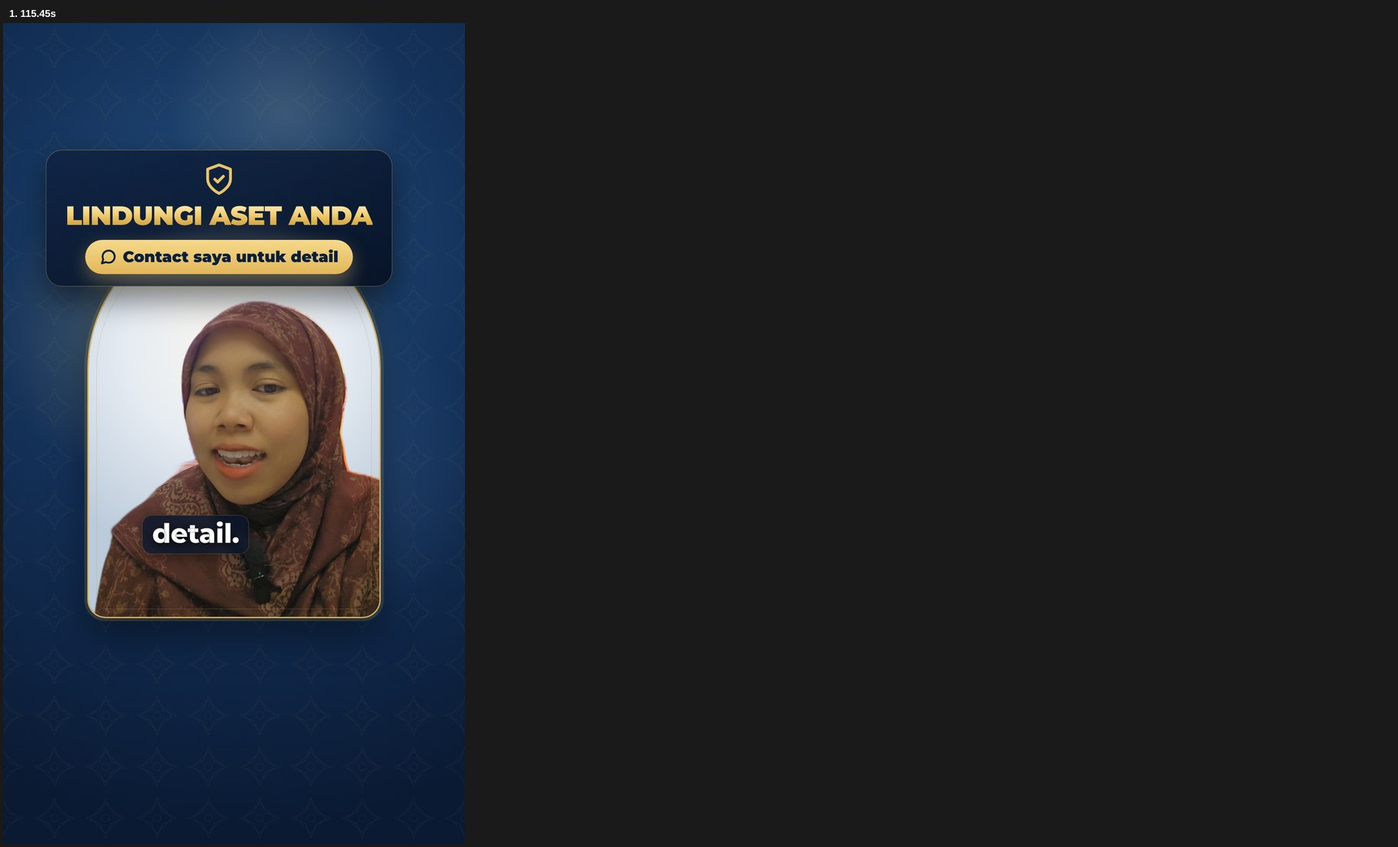
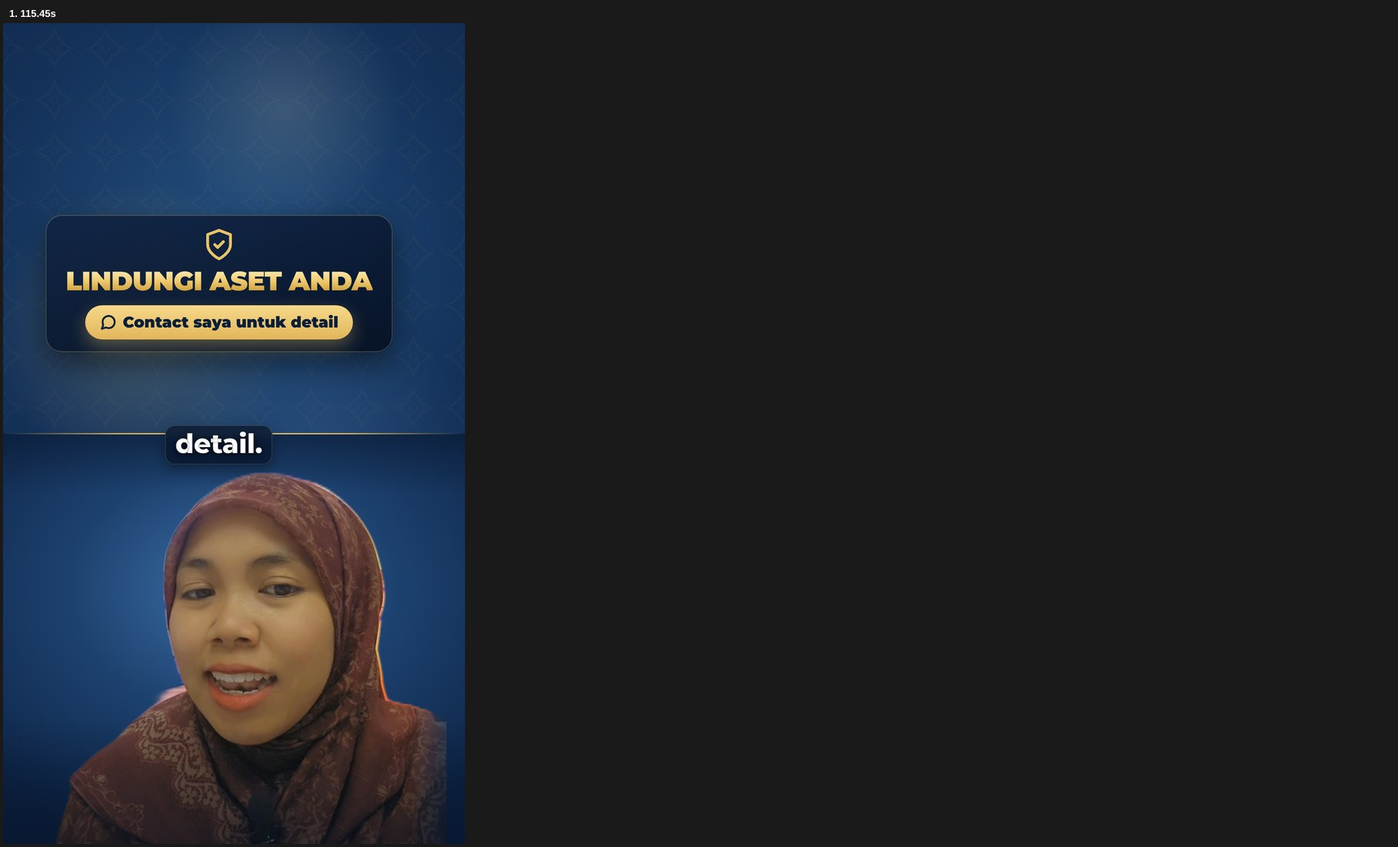
Split layout: explanations on top, speaker on the bottom half
Cards sit centred in the top half, caption pills ride the gold split line,
and the matted speaker fills the bottom stage with soft faded edges.

Claude-Session: https://claude.ai/code/session_01RHe32evRqHmnTFSgiGWNc1

Changed region(s): [[0.0, 0.1544, 0.3392, 1.0]]

diff --git a/wasiyyah-reel/compositions/captions.html b/wasiyyah-reel/compositions/captions.html
@@ -1,7 +1,7 @@
 <template>
   <style>
     #captions{position:absolute;inset:0;pointer-events:none}
-    #captions .grp{position:absolute;left:120px;width:660px;bottom:678px;white-space:nowrap;text-align:center;opacity:0;visibility:hidden;
+    #captions .grp{position:absolute;left:120px;width:768px;bottom:888px;white-space:nowrap;text-align:center;opacity:0;visibility:hidden;
       font-family:'Montserrat',sans-serif;font-weight:800;font-size:62px;line-height:1.12;letter-spacing:-.01em;color:#FFFFFF;overflow:visible}
     #captions .pb{display:inline-block;padding:8px 24px 12px;border-radius:22px;background:rgba(8,22,46,.76);border:1.5px solid rgba(233,196,106,.28);box-shadow:0 12px 30px rgba(0,0,0,.35);backdrop-filter:blur(10px);-webkit-backdrop-filter:blur(10px)}
     #captions .w{display:inline-block;text-shadow:0 3px 0 rgba(0,0,0,.35),0 6px 22px rgba(0,0,0,.75);-webkit-text-stroke:1.5px rgba(0,0,0,.25)}
@@ -18,7 +18,7 @@
       <div class="grp" id="cg7" data-a="10.570" data-b="11.255"><span class="pb"><span class="w k" id="cw7_0" data-t="10.630">ASB</span></span></div>
       <div class="grp" id="cg8" data-a="11.255" data-b="12.192"><span class="pb"><span class="w k" id="cw8_0" data-t="11.315">Tabung</span> <span class="w k" id="cw8_1" data-t="11.463">Haji</span></span></div>
       <div class="grp" id="cg9" data-a="12.192" data-b="12.470"><span class="pb"><span class="w" id="cw9_0" data-t="12.252">semuanya</span></span></div>
-      <div class="grp" id="cg10" data-a="12.470" data-b="13.784"><span class="pb"><span class="w k" id="cw10_0" data-t="12.530">dibekukan</span> <span class="w" id="cw10_1" data-t="13.344">dan</span> <span class="w" id="cw10_2" data-t="13.604">tak</span></span></div>
+      <div class="grp" id="cg10" data-a="12.470" data-b="13.784" style="font-size:58px"><span class="pb"><span class="w k" id="cw10_0" data-t="12.530">dibekukan</span> <span class="w" id="cw10_1" data-t="13.344">dan</span> <span class="w" id="cw10_2" data-t="13.604">tak</span></span></div>
       <div class="grp" id="cg11" data-a="13.784" data-b="13.988"><span class="pb"><span class="w" id="cw11_0" data-t="13.844">boleh</span></span></div>
       <div class="grp" id="cg12" data-a="13.988" data-b="14.810"><span class="pb"><span class="w" id="cw12_0" data-t="14.048">dikeluarkan.</span></span></div>
       <div class="grp" id="cg13" data-a="14.810" data-b="15.570"><span class="pb"><span class="w" id="cw13_0" data-t="14.870">Untuk</span> <span class="w" id="cw13_1" data-t="15.167">keluarkan</span></span></div>
@@ -33,7 +33,7 @@
       <div class="grp" id="cg22" data-a="22.492" data-b="23.082"><span class="pb"><span class="w" id="cw22_0" data-t="22.552">Prosesnya</span></span></div>
       <div class="grp" id="cg23" data-a="23.307" data-b="24.288"><span class="pb"><span class="w" id="cw23_0" data-t="23.367">panjang.</span></span></div>
       <div class="grp" id="cg24" data-a="24.288" data-b="24.807"><span class="pb"><span class="w" id="cw24_0" data-t="24.348">Tarikh</span> <span class="w k" id="cw24_1" data-t="24.533">bicara</span></span></div>
-      <div class="grp" id="cg25" data-a="24.807" data-b="26.238"><span class="pb"><span class="w k" id="cw25_0" data-t="24.867">kuasa</span> <span class="w" id="cw25_1" data-t="25.200">biasanya</span> <span class="w k" id="cw25_2" data-t="25.733">6</span></span></div>
+      <div class="grp" id="cg25" data-a="24.807" data-b="26.238" style="font-size:61px"><span class="pb"><span class="w k" id="cw25_0" data-t="24.867">kuasa</span> <span class="w" id="cw25_1" data-t="25.200">biasanya</span> <span class="w k" id="cw25_2" data-t="25.733">6</span></span></div>
       <div class="grp" id="cg26" data-a="26.238" data-b="27.442"><span class="pb"><span class="w" id="cw26_0" data-t="26.298">hingga</span> <span class="w k" id="cw26_1" data-t="26.706">7</span> <span class="w k" id="cw26_2" data-t="27.057">bulan</span></span></div>
       <div class="grp" id="cg27" data-a="27.442" data-b="28.201"><span class="pb"><span class="w" id="cw27_0" data-t="27.502">bergantung</span></span></div>
       <div class="grp" id="cg28" data-a="28.201" data-b="28.910"><span class="pb"><span class="w" id="cw28_0" data-t="28.261">kawasan.</span></span></div>
@@ -76,7 +76,7 @@
       <div class="grp" id="cg65" data-a="58.907" data-b="59.866"><span class="pb"><span class="w" id="cw65_0" data-t="58.967">Akibatnya</span></span></div>
       <div class="grp" id="cg66" data-a="59.866" data-b="60.347"><span class="pb"><span class="w" id="cw66_0" data-t="59.926">aset</span> <span class="w" id="cw66_1" data-t="60.074">terus</span></span></div>
       <div class="grp" id="cg67" data-a="60.347" data-b="61.044"><span class="pb"><span class="w k" id="cw67_0" data-t="60.407">terbeku.</span></span></div>
-      <div class="grp" id="cg68" data-a="61.044" data-b="62.155"><span class="pb"><span class="w" id="cw68_0" data-t="61.104">Nak</span> <span class="w" id="cw68_1" data-t="61.344">minta</span> <span class="w" id="cw68_2" data-t="61.807">bantuan</span></span></div>
+      <div class="grp" id="cg68" data-a="61.044" data-b="62.155" style="font-size:57px"><span class="pb"><span class="w" id="cw68_0" data-t="61.104">Nak</span> <span class="w" id="cw68_1" data-t="61.344">minta</span> <span class="w" id="cw68_2" data-t="61.807">bantuan</span></span></div>
       <div class="grp" id="cg69" data-a="62.155" data-b="63.171"><span class="pb"><span class="w" id="cw69_0" data-t="62.215">third party?</span></span></div>
       <div class="grp" id="cg70" data-a="63.171" data-b="64.149"><span class="pb"><span class="w" id="cw70_0" data-t="63.231">Kebanyakannya</span></span></div>
       <div class="grp" id="cg71" data-a="64.149" data-b="65.242"><span class="pb"><span class="w k" id="cw71_0" data-t="64.209">cas</span> <span class="w k" id="cw71_1" data-t="64.376">2%</span> <span class="w" id="cw71_2" data-t="65.080">ke</span></span></div>
@@ -88,29 +88,29 @@
       <div class="grp" id="cg77" data-a="69.386" data-b="71.053"><span class="pb"><span class="w k" id="cw77_0" data-t="69.446">RM20,000</span> <span class="w" id="cw77_1" data-t="70.687">at</span></span></div>
       <div class="grp" id="cg78" data-a="71.053" data-b="71.444"><span class="pb"><span class="w" id="cw78_0" data-t="71.113">least.</span></span></div>
       <div class="grp" id="cg79" data-a="71.444" data-b="72.059"><span class="pb"><span class="w" id="cw79_0" data-t="71.504">Sebab</span> <span class="w" id="cw79_1" data-t="71.763">itu</span></span></div>
-      <div class="grp" id="cg80" data-a="72.059" data-b="73.207"><span class="pb"><span class="w" id="cw80_0" data-t="72.119">Syarikat</span> <span class="w k" id="cw80_1" data-t="72.859">Wasiyyah</span></span></div>
+      <div class="grp" id="cg80" data-a="72.059" data-b="73.207" style="font-size:57px"><span class="pb"><span class="w" id="cw80_0" data-t="72.119">Syarikat</span> <span class="w k" id="cw80_1" data-t="72.859">Wasiyyah</span></span></div>
       <div class="grp" id="cg81" data-a="73.207" data-b="73.521"><span class="pb"><span class="w" id="cw81_0" data-t="73.267">Berhad</span></span></div>
       <div class="grp" id="cg82" data-a="73.521" data-b="75.301"><span class="pb"><span class="w" id="cw82_0" data-t="73.581">memperkenalkan</span></span></div>
       <div class="grp" id="cg83" data-a="75.301" data-b="76.227"><span class="pb"><span class="w" id="cw83_0" data-t="75.361">satu</span> <span class="w" id="cw83_1" data-t="75.861">produk</span></span></div>
-      <div class="grp" id="cg84" data-a="76.227" data-b="77.531"><span class="pb"><span class="w k" id="cw84_0" data-t="76.287">Wasiyyah</span> <span class="w" id="cw84_1" data-t="76.980">sebagai</span></span></div>
+      <div class="grp" id="cg84" data-a="76.227" data-b="77.531" style="font-size:61px"><span class="pb"><span class="w k" id="cw84_0" data-t="76.287">Wasiyyah</span> <span class="w" id="cw84_1" data-t="76.980">sebagai</span></span></div>
       <div class="grp" id="cg85" data-a="77.531" data-b="78.510"><span class="pb"><span class="w k" id="cw85_0" data-t="77.591">Khairiat</span> <span class="w k" id="cw85_1" data-t="77.906">Pusaka.</span></span></div>
       <div class="grp" id="cg86" data-a="78.510" data-b="79.566"><span class="pb"><span class="w" id="cw86_0" data-t="78.570">Yang</span> <span class="w" id="cw86_1" data-t="78.644">mana</span> <span class="w" id="cw86_2" data-t="79.107">kami</span></span></div>
       <div class="grp" id="cg87" data-a="79.566" data-b="80.436"><span class="pb"><span class="w" id="cw87_0" data-t="79.626">akan</span> <span class="w" id="cw87_1" data-t="80.070">bantu</span></span></div>
       <div class="grp" id="cg88" data-a="80.436" data-b="81.418"><span class="pb"><span class="w" id="cw88_0" data-t="80.496">uruskan</span> <span class="w k" id="cw88_1" data-t="80.941">pusaka</span></span></div>
       <div class="grp" id="cg89" data-a="81.418" data-b="82.992"><span class="pb"><span class="w" id="cw89_0" data-t="81.478">anda</span> <span class="w" id="cw89_1" data-t="82.015">sehingga</span></span></div>
-      <div class="grp" id="cg90" data-a="82.992" data-b="83.973"><span class="pb"><span class="w" id="cw90_0" data-t="83.052">waris</span> <span class="w" id="cw90_1" data-t="83.385">dapat</span> <span class="w k" id="cw90_2" data-t="83.756">surat</span></span></div>
+      <div class="grp" id="cg90" data-a="82.992" data-b="83.973" style="font-size:58px"><span class="pb"><span class="w" id="cw90_0" data-t="83.052">waris</span> <span class="w" id="cw90_1" data-t="83.385">dapat</span> <span class="w k" id="cw90_2" data-t="83.756">surat</span></span></div>
       <div class="grp" id="cg91" data-a="83.973" data-b="84.877"><span class="pb"><span class="w k" id="cw91_0" data-t="84.033">kuasa.</span></span></div>
-      <div class="grp" id="cg92" data-a="84.877" data-b="85.710"><span class="pb"><span class="w k" id="cw92_0" data-t="84.937">Tiada</span> <span class="w k" id="cw92_1" data-t="85.178">cas</span> <span class="w" id="cw92_2" data-t="85.381">selepas</span></span></div>
+      <div class="grp" id="cg92" data-a="84.877" data-b="85.710" style="font-size:59px"><span class="pb"><span class="w k" id="cw92_0" data-t="84.937">Tiada</span> <span class="w k" id="cw92_1" data-t="85.178">cas</span> <span class="w" id="cw92_2" data-t="85.381">selepas</span></span></div>
       <div class="grp" id="cg93" data-a="85.710" data-b="86.990"><span class="pb"><span class="w k" id="cw93_0" data-t="85.770">kematian</span></span></div>
       <div class="grp" id="cg94" data-a="86.990" data-b="87.786"><span class="pb"><span class="w" id="cw94_0" data-t="87.050">hanya</span> <span class="w" id="cw94_1" data-t="87.180">serendah</span></span></div>
-      <div class="grp" id="cg95" data-a="87.786" data-b="90.551"><span class="pb"><span class="w k" id="cw95_0" data-t="87.846">RM32.40</span> <span class="w" id="cw95_1" data-t="89.611">sebulan</span></span></div>
+      <div class="grp" id="cg95" data-a="87.786" data-b="90.551" style="font-size:61px"><span class="pb"><span class="w k" id="cw95_0" data-t="87.846">RM32.40</span> <span class="w" id="cw95_1" data-t="89.611">sebulan</span></span></div>
       <div class="grp" id="cg96" data-a="90.551" data-b="92.051"><span class="pb"><span class="w" id="cw96_0" data-t="90.611">termasuk</span> <span class="w" id="cw96_1" data-t="91.000">SST</span></span></div>
       <div class="grp" id="cg97" data-a="92.051" data-b="93.840"><span class="pb"><span class="w" id="cw97_0" data-t="92.111">selama</span> <span class="w k" id="cw97_1" data-t="92.611">15</span> <span class="w k" id="cw97_2" data-t="93.370">tahun.</span></span></div>
-      <div class="grp" id="cg98" data-a="93.840" data-b="95.155"><span class="pb"><span class="w" id="cw98_0" data-t="93.900">Kami</span> <span class="w" id="cw98_1" data-t="94.419">uruskan</span> <span class="w" id="cw98_2" data-t="94.937">aset</span></span></div>
+      <div class="grp" id="cg98" data-a="93.840" data-b="95.155" style="font-size:57px"><span class="pb"><span class="w" id="cw98_0" data-t="93.900">Kami</span> <span class="w" id="cw98_1" data-t="94.419">uruskan</span> <span class="w" id="cw98_2" data-t="94.937">aset</span></span></div>
       <div class="grp" id="cg99" data-a="95.155" data-b="96.155"><span class="pb"><span class="w" id="cw99_0" data-t="95.215">sehingga</span> <span class="w k" id="cw99_1" data-t="95.789">RM2</span></span></div>
       <div class="grp" id="cg100" data-a="96.155" data-b="96.944"><span class="pb"><span class="w k" id="cw100_0" data-t="96.215">juta.</span></span></div>
       <div class="grp" id="cg101" data-a="96.944" data-b="97.833"><span class="pb"><span class="w" id="cw101_0" data-t="97.004">Sekiranya</span> <span class="w" id="cw101_1" data-t="97.504">anda</span></span></div>
-      <div class="grp" id="cg102" data-a="97.833" data-b="98.981"><span class="pb"><span class="w" id="cw102_0" data-t="97.893">melanggan</span> <span class="w k" id="cw102_1" data-t="98.411">Wasitah</span></span></div>
+      <div class="grp" id="cg102" data-a="97.833" data-b="98.981" style="font-size:57px"><span class="pb"><span class="w" id="cw102_0" data-t="97.893">melanggan</span> <span class="w k" id="cw102_1" data-t="98.411">Wasitah</span></span></div>
       <div class="grp" id="cg103" data-a="98.981" data-b="99.981"><span class="pb"><span class="w k" id="cw103_0" data-t="99.041">Intan</span> <span class="w" id="cw103_1" data-t="99.337">ini</span></span></div>
       <div class="grp" id="cg104" data-a="99.981" data-b="100.962"><span class="pb"><span class="w" id="cw104_0" data-t="100.041">jumlahnya</span> <span class="w" id="cw104_1" data-t="100.578">hanya</span></span></div>
       <div class="grp" id="cg105" data-a="100.962" data-b="104.077"><span class="pb"><span class="w k" id="cw105_0" data-t="101.022">RM5,832</span> <span class="w" id="cw105_1" data-t="103.263">saja.</span></span></div>
@@ -118,8 +118,8 @@
       <div class="grp" id="cg107" data-a="104.596" data-b="105.403"><span class="pb"><span class="w k" id="cw107_0" data-t="104.656">kuasa</span></span></div>
       <div class="grp" id="cg108" data-a="105.403" data-b="106.279"><span class="pb"><span class="w" id="cw108_0" data-t="105.463">keluarga</span> <span class="w" id="cw108_1" data-t="106.061">boleh</span></span></div>
       <div class="grp" id="cg109" data-a="106.279" data-b="107.686"><span class="pb"><span class="w" id="cw109_0" data-t="106.339">terus</span> <span class="w" id="cw109_1" data-t="106.654">ke</span> <span class="w k" id="cw109_2" data-t="106.913">JPJ</span></span></div>
-      <div class="grp" id="cg110" data-a="107.686" data-b="108.738"><span class="pb"><span class="w k" id="cw110_0" data-t="107.746">Pejabat</span> <span class="w k" id="cw110_1" data-t="108.024">Tanah</span> <span class="w" id="cw110_2" data-t="108.567">dan</span></span></div>
-      <div class="grp" id="cg111" data-a="108.738" data-b="109.812"><span class="pb"><span class="w k" id="cw111_0" data-t="108.798">bank</span> <span class="w" id="cw111_1" data-t="109.113">untuk</span> <span class="w" id="cw111_2" data-t="109.520">tukar</span></span></div>
+      <div class="grp" id="cg110" data-a="107.686" data-b="108.738" style="font-size:55px"><span class="pb"><span class="w k" id="cw110_0" data-t="107.746">Pejabat</span> <span class="w k" id="cw110_1" data-t="108.024">Tanah</span> <span class="w" id="cw110_2" data-t="108.567">dan</span></span></div>
+      <div class="grp" id="cg111" data-a="108.738" data-b="109.812" style="font-size:60px"><span class="pb"><span class="w k" id="cw111_0" data-t="108.798">bank</span> <span class="w" id="cw111_1" data-t="109.113">untuk</span> <span class="w" id="cw111_2" data-t="109.520">tukar</span></span></div>
       <div class="grp" id="cg112" data-a="109.812" data-b="110.775"><span class="pb"><span class="w" id="cw112_0" data-t="109.872">nama</span> <span class="w" id="cw112_1" data-t="110.187">dan</span> <span class="w k" id="cw112_2" data-t="110.465">cairkan</span></span></div>
       <div class="grp" id="cg113" data-a="110.775" data-b="111.325"><span class="pb"><span class="w k" id="cw113_0" data-t="110.835">duit.</span></span></div>
       <div class="grp" id="cg114" data-a="111.325" data-b="112.640"><span class="pb"><span class="w k" id="cw114_0" data-t="111.385">Lindungi</span> <span class="w" id="cw114_1" data-t="112.459">aset</span></span></div>

diff --git a/wasiyyah-reel/index.html b/wasiyyah-reel/index.html
@@ -15,15 +15,15 @@
       #orb1 { left: -220px; top: 120px; width: 760px; height: 760px; background: radial-gradient(circle, rgba(233,196,106,.20) 0%, rgba(233,196,106,0) 65%); }
       #orb2 { right: -260px; top: 900px; width: 820px; height: 820px; background: radial-gradient(circle, rgba(120,170,230,.18) 0%, rgba(120,170,230,0) 65%); }
       #orb3 { left: 240px; top: -260px; width: 600px; height: 600px; background: radial-gradient(circle, rgba(255,240,200,.14) 0%, rgba(255,240,200,0) 65%); }
-      #arch-glow { position: absolute; left: 140px; top: 410px; width: 800px; height: 1039px; z-index: 1;
-        border-radius: 400px 400px 90px 90px;
-        background: radial-gradient(ellipse at 50% 35%, rgba(233,196,106,.22), rgba(233,196,106,0) 70%); }
-      #arch { position: absolute; left: 200px; top: 470px; width: 680px; height: 919px; z-index: 1; overflow: hidden;
-        border-radius: 340px 340px 40px 40px;
-        background: radial-gradient(ellipse 80% 55% at 50% 32%, #FBF8EE 0%, #E6ECF2 45%, #BCCBDB 100%);
-        box-shadow: 0 0 0 3px #D9B25C, 0 0 0 10px rgba(217,178,92,.16), 0 40px 90px rgba(0,0,0,.45); }
-      #arch-inner { position: absolute; inset: 18px; border-radius: 322px 322px 26px 26px; border: 1.5px solid rgba(201,150,46,.35); z-index: 2; }
-      #shake { position: absolute; inset: 0; }
+      #stage { position: absolute; left: 0; top: 960px; width: 1080px; height: 960px; z-index: 1; overflow: hidden;
+        background: radial-gradient(ellipse 75% 65% at 50% 38%, #3B6FA6 0%, #1D416E 48%, #0D2446 100%); }
+      #stage-vig { position: absolute; inset: 0; z-index: 2; pointer-events: none;
+        background: linear-gradient(180deg, rgba(10,26,51,.55) 0%, rgba(10,26,51,0) 14%, rgba(10,26,51,0) 70%, rgba(6,15,32,.55) 100%); }
+      #stage-line { position: absolute; left: 0; width: 1080px; top: 959px; height: 3px; z-index: 3;
+        background: linear-gradient(90deg, rgba(217,178,92,0), #D9B25C 25%, #F2CF76 50%, #D9B25C 75%, rgba(217,178,92,0)); }
+      #shake { position: absolute; inset: 0;
+        -webkit-mask-image: linear-gradient(90deg, transparent 0px, #000 130px, #000 950px, transparent 1080px);
+        mask-image: linear-gradient(90deg, transparent 0px, #000 130px, #000 950px, transparent 1080px); }
       #cam { position: absolute; left: 0; top: 0; width: 1080px; height: 1920px; transform-origin: 0 0; }
       #aroll { position: absolute; left: 0; top: 0; width: 1080px; height: 1920px; object-fit: cover; }
       #frost { position: absolute; inset: 0; z-index: 3; opacity: 0;
@@ -37,10 +37,10 @@
   <body>
     <div id="root" data-composition-id="main" data-start="0" data-duration="115.7" data-width="1080" data-height="1920">
       <div id="bg" data-layout-ignore><div id="bg-pattern"></div><div class="orb" id="orb1"></div><div class="orb" id="orb2"></div><div class="orb" id="orb3"></div></div>
-      <div id="arch-glow" data-layout-ignore></div>
-      <div id="arch" data-layout-ignore><div id="shake"><div id="cam">
+      <div id="stage" data-layout-ignore><div id="shake"><div id="cam">
         <video id="aroll" data-color-grading="{&quot;preset&quot;:&quot;skin-soft&quot;,&quot;intensity&quot;:0.62,&quot;adjust&quot;:{&quot;exposure&quot;:0.08,&quot;contrast&quot;:0.07,&quot;highlights&quot;:-0.18,&quot;shadows&quot;:0.13,&quot;whites&quot;:-0.05,&quot;blacks&quot;:0,&quot;temperature&quot;:-0.04,&quot;tint&quot;:0.01,&quot;vibrance&quot;:0.04,&quot;saturation&quot;:0},&quot;details&quot;:{&quot;vignette&quot;:0.05,&quot;vignetteMidpoint&quot;:0.5,&quot;vignetteRoundness&quot;:0,&quot;vignetteFeather&quot;:0.65,&quot;grain&quot;:0,&quot;grainSize&quot;:0.25,&quot;grainRoughness&quot;:0.5},&quot;effects&quot;:{&quot;blur&quot;:0,&quot;pixelate&quot;:0,&quot;chromaBleed&quot;:0,&quot;tapeDamage&quot;:0,&quot;tapeTracking&quot;:0,&quot;tapeNoise&quot;:1,&quot;tapeSpeed&quot;:0.5,&quot;filmArtifacts&quot;:0,&quot;halftone&quot;:0,&quot;halftoneSize&quot;:0,&quot;twoInkPrint&quot;:0,&quot;twoInkPrintSize&quot;:0,&quot;ascii&quot;:0,&quot;asciiSize&quot;:0.06578947368421052,&quot;asciiInvert&quot;:0,&quot;asciiStyle&quot;:0,&quot;asciiColor&quot;:1,&quot;asciiRotation&quot;:0,&quot;dither&quot;:0,&quot;ditherSize&quot;:0,&quot;bloom&quot;:0,&quot;bloomRadius&quot;:8,&quot;monoScreen&quot;:0,&quot;monoScreenSize&quot;:0,&quot;monoScreenAngle&quot;:0,&quot;monoScreenSpread&quot;:0,&quot;monoScreenShape&quot;:0,&quot;monoScreenInvert&quot;:0,&quot;scanlines&quot;:0,&quot;scanlineCount&quot;:0,&quot;scanlineSoftness&quot;:0,&quot;chromaticAberration&quot;:0,&quot;chromaticAngle&quot;:0,&quot;crtCurvature&quot;:0,&quot;digitalGlitch&quot;:0,&quot;digitalGlitchColorSplit&quot;:0,&quot;digitalGlitchLineTear&quot;:0,&quot;digitalGlitchPixelate&quot;:0,&quot;digitalGlitchBlockAmount&quot;:0,&quot;digitalGlitchBlockDisplacement&quot;:0,&quot;digitalGlitchBlockOpacity&quot;:0,&quot;digitalGlitchSpeed&quot;:0,&quot;engraving&quot;:0,&quot;engravingSpacing&quot;:0.4117647058823529,&quot;engravingMinThickness&quot;:0.2,&quot;engravingMaxThickness&quot;:0.4571428571428572,&quot;engravingAngle&quot;:0.25,&quot;engravingContrast&quot;:0.4666666666666667,&quot;engravingSharpness&quot;:0.59,&quot;engravingWave&quot;:0.2,&quot;engravingWaveFrequency&quot;:0.2222222222222222,&quot;crosshatch&quot;:0,&quot;crosshatchSpacing&quot;:0.28,&quot;crosshatchThickness&quot;:0.25,&quot;crosshatchAngle&quot;:0.25,&quot;crosshatchContrast&quot;:0.3333333333333333,&quot;crosshatchEdges&quot;:0.5,&quot;crosshatchLineWeight&quot;:0,&quot;crosshatchWave&quot;:0.33,&quot;crosshatchWaveFrequency&quot;:0.2222222222222222,&quot;kuwahara&quot;:0,&quot;kuwaharaRadius&quot;:0.14285714285714285,&quot;kuwaharaSharpness&quot;:0.3125,&quot;kuwaharaSaturation&quot;:0.5},&quot;lut&quot;:null,&quot;colorSpace&quot;:&quot;rec709&quot;}" class="clip" src="assets/person.webm" data-start="0" data-duration="115.7" data-track-index="0" muted playsinline></video>
-      </div></div><div id="arch-inner"></div></div>
+      </div></div><div id="stage-vig"></div></div>
+      <div id="stage-line" data-layout-ignore></div>
       <audio id="voice" class="clip" src="assets/voice.wav" data-start="0" data-duration="115.7" data-volume="1" data-track-index="1"></audio>
       <div id="frost" data-layout-ignore></div>
       <div id="hook" class="clip scene" data-composition-id="hook" data-composition-src="compositions/hook.html" data-start="0.0" data-duration="4.75" data-track-index="2" data-track-kind="graphics" data-width="1080" data-height="1920"></div>
@@ -128,13 +128,13 @@
     </div>
     <script>
       const tl = gsap.timeline({ paused: true });
-      const CAM = [[0.0, 2.5, -5.6, -310.0, 0.64, -9.75, -318.06, 0.6477], [4.733, 1.233, -27.2, -352.0, 0.68, -31.61, -360.57, 0.6882], [5.967, 2.367, -5.6, -310.0, 0.64, -9.75, -318.06, 0.6477], [8.333, 3.567, -27.2, -352.0, 0.68, -31.61, -360.57, 0.6882], [11.9, 2.933, -5.6, -310.0, 0.64, -9.75, -318.06, 0.6477], [14.833, 2.533, -27.2, -352.0, 0.68, -31.61, -360.57, 0.6882], [17.367, 2.333, -5.6, -310.0, 0.64, -9.75, -318.06, 0.6477], [19.7, 2.867, -27.2, -352.0, 0.68, -31.61, -360.57, 0.6882], [22.567, 0.8, -5.6, -310.0, 0.64, -9.75, -318.06, 0.6477], [23.367, 0.5, -5.6, -310.0, 0.64, -9.75, -318.06, 0.6477], [23.867, 1.867, -27.2, -352.0, 0.68, -31.61, -360.57, 0.6882], [25.733, 3.2, -5.6, -310.0, 0.64, -9.75, -318.06, 0.6477], [28.933, 6.933, -27.2, -352.0, 0.68, -31.61, -360.57, 0.6882], [35.867, 0.267, -27.2, -352.0, 0.68, -31.61, -360.57, 0.6882], [36.133, 1.6, -5.6, -310.0, 0.64, -9.75, -318.06, 0.6477], [37.733, 3.0, -27.2, -352.0, 0.68, -31.61, -360.57, 0.6882], [40.733, 2.233, -5.6, -310.0, 0.64, -9.75, -318.06, 0.6477], [42.967, 1.967, -27.2, -352.0, 0.68, -31.61, -360.57, 0.6882], [44.933, 1.433, -5.6, -310.0, 0.64, -9.75, -318.06, 0.6477], [46.367, 3.433, -27.2, -352.0, 0.68, -31.61, -360.57, 0.6882], [49.8, 2.167, -5.6, -310.0, 0.64, -9.75, -318.06, 0.6477], [51.967, 1.4, -27.2, -352.0, 0.68, -31.61, -360.57, 0.6882], [53.367, 2.3, -5.6, -310.0, 0.64, -9.75, -318.06, 0.6477], [55.667, 3.3, -27.2, -352.0, 0.68, -31.61, -360.57, 0.6882], [58.967, 0.7, -27.2, -352.0, 0.68, -31.61, -360.57, 0.6882], [59.667, 1.4, -5.6, -310.0, 0.64, -9.75, -318.06, 0.6477], [61.067, 1.767, -27.2, -352.0, 0.68, -31.61, -360.57, 0.6882], [62.833, 1.2, -5.6, -310.0, 0.64, -9.75, -318.06, 0.6477], [64.033, 1.6, -27.2, -352.0, 0.68, -31.61, -360.57, 0.6882], [65.633, 0.833, -5.6, -310.0, 0.64, -9.75, -318.06, 0.6477], [66.467, 1.767, -27.2, -352.0, 0.68, -31.61, -360.57, 0.6882], [68.233, 3.133, -5.6, -310.0, 0.64, -9.75, -318.06, 0.6477], [71.367, 0.1, -5.6, -310.0, 0.64, -9.75, -318.06, 0.6477], [71.467, 0.633, -5.6, -310.0, 0.64, -9.75, -318.06, 0.6477], [72.1, 3.233, -27.2, -352.0, 0.68, -31.61, -360.57, 0.6882], [75.333, 1.6, -5.6, -310.0, 0.64, -9.75, -318.06, 0.6477], [76.933, 1.6, -27.2, -352.0, 0.68, -31.61, -360.57, 0.6882], [78.533, 4.5, -5.6, -310.0, 0.64, -9.75, -318.06, 0.6477], [83.033, 1.867, -27.2, -352.0, 0.68, -31.61, -360.57, 0.6882], [84.9, 1.733, -5.6, -310.0, 0.64, -9.75, -318.06, 0.6477], [86.633, 2.367, -27.2, -352.0, 0.68, -31.61, -360.57, 0.6882], [89.0, 4.9, -5.6, -310.0, 0.64, -9.75, -318.06, 0.6477], [93.9, 2.867, -27.2, -352.0, 0.68, -31.61, -360.57, 0.6882], [96.767, 0.2, -27.2, -352.0, 0.68, -31.61, -360.57, 0.6882], [96.967, 7.133, -5.6, -310.0, 0.64, -9.75, -318.06, 0.6477], [104.1, 1.067, -27.2, -352.0, 0.68, -31.61, -360.57, 0.6882], [105.167, 0.167, -27.2, -352.0, 0.68, -31.61, -360.57, 0.6882], [105.333, 0.7, -27.2, -352.0, 0.68, -31.61, -360.57, 0.6882], [106.033, 2.533, -5.6, -310.0, 0.64, -9.75, -318.06, 0.6477], [108.567, 2.533, -27.2, -352.0, 0.68, -31.61, -360.57, 0.6882], [111.1, 0.267, -27.2, -352.0, 0.68, -31.61, -360.57, 0.6882], [111.367, 1.733, -5.6, -310.0, 0.64, -9.75, -318.06, 0.6477], [113.1, 2.6, -27.2, -352.0, 0.68, -31.61, -360.57, 0.6882]];
+      const CAM = [[0.0, 2.5, 75.6, -568.0, 0.86, 70.03, -578.84, 0.8703], [4.733, 1.233, 48.6, -620.5, 0.91, 42.7, -631.97, 0.9209], [5.967, 2.367, 75.6, -568.0, 0.86, 70.03, -578.84, 0.8703], [8.333, 3.567, 48.6, -620.5, 0.91, 42.7, -631.97, 0.9209], [11.9, 2.933, 75.6, -568.0, 0.86, 70.03, -578.84, 0.8703], [14.833, 2.533, 48.6, -620.5, 0.91, 42.7, -631.97, 0.9209], [17.367, 2.333, 75.6, -568.0, 0.86, 70.03, -578.84, 0.8703], [19.7, 2.867, 48.6, -620.5, 0.91, 42.7, -631.97, 0.9209], [22.567, 0.8, 75.6, -568.0, 0.86, 70.03, -578.84, 0.8703], [23.367, 0.5, 75.6, -568.0, 0.86, 70.03, -578.84, 0.8703], [23.867, 1.867, 48.6, -620.5, 0.91, 42.7, -631.97, 0.9209], [25.733, 3.2, 75.6, -568.0, 0.86, 70.03, -578.84, 0.8703], [28.933, 6.933, 48.6, -620.5, 0.91, 42.7, -631.97, 0.9209], [35.867, 0.267, 48.6, -620.5, 0.91, 42.7, -631.97, 0.9209], [36.133, 1.6, 75.6, -568.0, 0.86, 70.03, -578.84, 0.8703], [37.733, 3.0, 48.6, -620.5, 0.91, 42.7, -631.97, 0.9209], [40.733, 2.233, 75.6, -568.0, 0.86, 70.03, -578.84, 0.8703], [42.967, 1.967, 48.6, -620.5, 0.91, 42.7, -631.97, 0.9209], [44.933, 1.433, 75.6, -568.0, 0.86, 70.03, -578.84, 0.8703], [46.367, 3.433, 48.6, -620.5, 0.91, 42.7, -631.97, 0.9209], [49.8, 2.167, 75.6, -568.0, 0.86, 70.03, -578.84, 0.8703], [51.967, 1.4, 48.6, -620.5, 0.91, 42.7, -631.97, 0.9209], [53.367, 2.3, 75.6, -568.0, 0.86, 70.03, -578.84, 0.8703], [55.667, 3.3, 48.6, -620.5, 0.91, 42.7, -631.97, 0.9209], [58.967, 0.7, 48.6, -620.5, 0.91, 42.7, -631.97, 0.9209], [59.667, 1.4, 75.6, -568.0, 0.86, 70.03, -578.84, 0.8703], [61.067, 1.767, 48.6, -620.5, 0.91, 42.7, -631.97, 0.9209], [62.833, 1.2, 75.6, -568.0, 0.86, 70.03, -578.84, 0.8703], [64.033, 1.6, 48.6, -620.5, 0.91, 42.7, -631.97, 0.9209], [65.633, 0.833, 75.6, -568.0, 0.86, 70.03, -578.84, 0.8703], [66.467, 1.767, 48.6, -620.5, 0.91, 42.7, -631.97, 0.9209], [68.233, 3.133, 75.6, -568.0, 0.86, 70.03, -578.84, 0.8703], [71.367, 0.1, 75.6, -568.0, 0.86, 70.03, -578.84, 0.8703], [71.467, 0.633, 75.6, -568.0, 0.86, 70.03, -578.84, 0.8703], [72.1, 3.233, 48.6, -620.5, 0.91, 42.7, -631.97, 0.9209], [75.333, 1.6, 75.6, -568.0, 0.86, 70.03, -578.84, 0.8703], [76.933, 1.6, 48.6, -620.5, 0.91, 42.7, -631.97, 0.9209], [78.533, 4.5, 75.6, -568.0, 0.86, 70.03, -578.84, 0.8703], [83.033, 1.867, 48.6, -620.5, 0.91, 42.7, -631.97, 0.9209], [84.9, 1.733, 75.6, -568.0, 0.86, 70.03, -578.84, 0.8703], [86.633, 2.367, 48.6, -620.5, 0.91, 42.7, -631.97, 0.9209], [89.0, 4.9, 75.6, -568.0, 0.86, 70.03, -578.84, 0.8703], [93.9, 2.867, 48.6, -620.5, 0.91, 42.7, -631.97, 0.9209], [96.767, 0.2, 48.6, -620.5, 0.91, 42.7, -631.97, 0.9209], [96.967, 7.133, 75.6, -568.0, 0.86, 70.03, -578.84, 0.8703], [104.1, 1.067, 48.6, -620.5, 0.91, 42.7, -631.97, 0.9209], [105.167, 0.167, 48.6, -620.5, 0.91, 42.7, -631.97, 0.9209], [105.333, 0.7, 48.6, -620.5, 0.91, 42.7, -631.97, 0.9209], [106.033, 2.533, 75.6, -568.0, 0.86, 70.03, -578.84, 0.8703], [108.567, 2.533, 48.6, -620.5, 0.91, 42.7, -631.97, 0.9209], [111.1, 0.267, 48.6, -620.5, 0.91, 42.7, -631.97, 0.9209], [111.367, 1.733, 75.6, -568.0, 0.86, 70.03, -578.84, 0.8703], [113.1, 2.6, 48.6, -620.5, 0.91, 42.7, -631.97, 0.9209]];
       CAM.forEach(([t, d, x0, y0, s0, x1, y1, s1]) => {
         tl.set('#cam', { x: x0, y: y0, scale: s0 }, t);
         tl.to('#cam', { x: x1, y: y1, scale: s1, duration: d, ease: 'none' }, t);
       });
       // giant-hook push-in (2.5s -> 4.5s)
-      tl.to('#cam', { x: -119.0, y: -530.5, scale: 0.85, duration: 2.0, ease: 'power2.in' }, 2.5);
+      tl.to('#cam', { x: -27.0, y: -767.5, scale: 1.05, duration: 2.0, ease: 'power2.in' }, 2.5);
       // calm background drift
       tl.fromTo('#orb1', { x: 0, y: 0 }, { x: 160, y: 220, duration: 115.7, ease: 'sine.inOut' }, 0);
       tl.fromTo('#orb2', { x: 0, y: 0 }, { x: -180, y: -260, duration: 115.7, ease: 'sine.inOut' }, 0);

diff --git a/wasiyyah-reel/compositions/assets.html b/wasiyyah-reel/compositions/assets.html
@@ -34,7 +34,7 @@
 </style>
   <div id="assets" data-composition-id="assets" data-width="1080" data-height="1920">
 
-    <div class="panel" id="as-panel" style="height:344px">
+    <div class="panel" id="as-panel" style="height:344px;top:437px">
       <div class="krow"><span class="kick" id="as-kick"><svg class="ico" width="30" height="30" viewBox="0 0 24 24" fill="none" stroke="#0B1F3A" stroke-width="2.6" stroke-linecap="round" stroke-linejoin="round"><path d="M2 12h20"/><path d="M12 2v20"/><path d="M20 16l-4-4 4-4"/><path d="M4 8l4 4-4 4"/><path d="M16 4l-4 4-4-4"/><path d="M8 20l4-4 4 4"/></svg> Aset yang dibekukan</span></div>
       <div class="row" style="top:94px;gap:14px"><span class="chip" id="as-c0"><svg class="ico" width="40" height="40" viewBox="0 0 24 24" fill="none" stroke="#E9C46A" stroke-width="2.2" stroke-linecap="round" stroke-linejoin="round"><path d="M19 17h2c.6 0 1-.4 1-1v-3c0-.9-.7-1.7-1.5-1.9C18.7 10.6 16 10 16 10s-1.3-1.4-2.2-2.3c-.5-.4-1.1-.7-1.8-.7H5c-.6 0-1.1.4-1.4.9l-1.4 2.9A3.7 3.7 0 0 0 2 12v4c0 .6.4 1 1 1h2"/><circle cx="7" cy="17" r="2"/><path d="M9 17h6"/><circle cx="17" cy="17" r="2"/></svg><span>Kereta</span><span class="frost" id="as-fr0"></span><span class="lockb" id="as-lk0"><svg class="ico" width="24" height="24" viewBox="0 0 24 24" fill="none" stroke="#0A2A3A" stroke-width="2.6" stroke-linecap="round" stroke-linejoin="round"><rect x="3" y="11" width="18" height="11" rx="2"/><path d="M7 11V7a5 5 0 0 1 10 0v4"/></svg></span></span><span class="chip" id="as-c1"><svg class="ico" width="40" height="40" viewBox="0 0 24 24" fill="none" stroke="#E9C46A" stroke-width="2.2" stroke-linecap="round" stroke-linejoin="round"><path d="M3 10l9-7 9 7v10a1 1 0 0 1-1 1h-5v-6H9v6H4a1 1 0 0 1-1-1z"/></svg><span>Rumah</span><span class="frost" id="as-fr1"></span><span class="lockb" id="as-lk1"><svg class="ico" width="24" height="24" viewBox="0 0 24 24" fill="none" stroke="#0A2A3A" stroke-width="2.6" stroke-linecap="round" stroke-linejoin="round"><rect x="3" y="11" width="18" height="11" rx="2"/><path d="M7 11V7a5 5 0 0 1 10 0v4"/></svg></span></span><span class="chip" id="as-c2"><svg class="ico" width="40" height="40" viewBox="0 0 24 24" fill="none" stroke="#E9C46A" stroke-width="2.2" stroke-linecap="round" stroke-linejoin="round"><path d="M3 22h18"/><path d="M6 18v-7"/><path d="M10 18v-7"/><path d="M14 18v-7"/><path d="M18 18v-7"/><path d="M12 2l8 5H4z"/></svg><span>Akaun Bank</span><span class="frost" id="as-fr2"></span><span class="lockb" id="as-lk2"><svg class="ico" width="24" height="24" viewBox="0 0 24 24" fill="none" stroke="#0A2A3A" stroke-width="2.6" stroke-linecap="round" stroke-linejoin="round"><rect x="3" y="11" width="18" height="11" rx="2"/><path d="M7 11V7a5 5 0 0 1 10 0v4"/></svg></span></span></div>
       <div class="row" style="top:184px;gap:14px"><span class="chip" id="as-c3"><svg class="ico" width="40" height="40" viewBox="0 0 24 24" fill="none" stroke="#E9C46A" stroke-width="2.2" stroke-linecap="round" stroke-linejoin="round"><path d="M22 7l-8.5 8.5-5-5L2 17"/><path d="M16 7h6v6"/></svg><span>ASB</span><span class="frost" id="as-fr3"></span><span class="lockb" id="as-lk3"><svg class="ico" width="24" height="24" viewBox="0 0 24 24" fill="none" stroke="#0A2A3A" stroke-width="2.6" stroke-linecap="round" stroke-linejoin="round"><rect x="3" y="11" width="18" height="11" rx="2"/><path d="M7 11V7a5 5 0 0 1 10 0v4"/></svg></span></span><span class="chip" id="as-c4"><svg class="ico" width="40" height="40" viewBox="0 0 24 24" fill="none" stroke="#E9C46A" stroke-width="2.2" stroke-linecap="round" stroke-linejoin="round"><circle cx="8" cy="8" r="6"/><path d="M18.09 10.37A6 6 0 1 1 10.34 18"/><path d="M7 6h1v4"/><path d="M16.71 13.88l.7.71-2.82 2.82"/></svg><span>Tabung Haji</span><span class="frost" id="as-fr4"></span><span class="lockb" id="as-lk4"><svg class="ico" width="24" height="24" viewBox="0 0 24 24" fill="none" stroke="#0A2A3A" stroke-width="2.6" stroke-linecap="round" stroke-linejoin="round"><rect x="3" y="11" width="18" height="11" rx="2"/><path d="M7 11V7a5 5 0 0 1 10 0v4"/></svg></span></span></div>

diff --git a/wasiyyah-reel/compositions/lepas.html b/wasiyyah-reel/compositions/lepas.html
@@ -33,7 +33,7 @@
 </style>
   <div id="lepas" data-composition-id="lepas" data-width="1080" data-height="1920">
 
-    <div class="panel" id="lp-panel" style="height:346px">
+    <div class="panel" id="lp-panel" style="height:346px;top:436px">
       <div class="krow"><span class="kick" id="lp-kick"><svg class="ico" width="30" height="30" viewBox="0 0 24 24" fill="none" stroke="#0B1F3A" stroke-width="3" stroke-linecap="round" stroke-linejoin="round"><path d="M20 6L9 17l-5-5"/></svg> Dah dapat surat kuasa</span></div>
       <div class="row" style="top:76px"><span class="t-sm" id="lp-l1">Keluarga terus ke</span></div>
       <div class="row" style="top:122px;gap:14px"><div class="tile" id="lp-t0"><svg class="ico" width="54" height="54" viewBox="0 0 24 24" fill="none" stroke="#E9C46A" stroke-width="2" stroke-linecap="round" stroke-linejoin="round"><path d="M19 17h2c.6 0 1-.4 1-1v-3c0-.9-.7-1.7-1.5-1.9C18.7 10.6 16 10 16 10s-1.3-1.4-2.2-2.3c-.5-.4-1.1-.7-1.8-.7H5c-.6 0-1.1.4-1.4.9l-1.4 2.9A3.7 3.7 0 0 0 2 12v4c0 .6.4 1 1 1h2"/><circle cx="7" cy="17" r="2"/><path d="M9 17h6"/><circle cx="17" cy="17" r="2"/></svg><span>JPJ</span></div><div class="tile" id="lp-t1"><svg class="ico" width="54" height="54" viewBox="0 0 24 24" fill="none" stroke="#E9C46A" stroke-width="2" stroke-linecap="round" stroke-linejoin="round"><path d="M3 6l6-3 6 3 6-3v15l-6 3-6-3-6 3z"/><path d="M9 3v15"/><path d="M15 6v15"/></svg><span>Pejabat Tanah</span></div><div class="tile" id="lp-t2"><svg class="ico" width="54" height="54" viewBox="0 0 24 24" fill="none" stroke="#E9C46A" stroke-width="2" stroke-linecap="round" stroke-linejoin="round"><path d="M3 22h18"/><path d="M6 18v-7"/><path d="M10 18v-7"/><path d="M14 18v-7"/><path d="M18 18v-7"/><path d="M12 2l8 5H4z"/></svg><span>Bank</span></div></div>

diff --git a/wasiyyah-reel/compositions/bantu.html b/wasiyyah-reel/compositions/bantu.html
@@ -35,7 +35,7 @@
 </style>
   <div id="bantu" data-composition-id="bantu" data-width="1080" data-height="1920">
 
-    <div class="panel" id="bt-panel" style="height:316px">
+    <div class="panel" id="bt-panel" style="height:316px;top:451px">
       <div class="krow"><span class="kick" id="bt-kick"><svg class="ico" width="30" height="30" viewBox="0 0 24 24" fill="none" stroke="#0B1F3A" stroke-width="2.6" stroke-linecap="round" stroke-linejoin="round"><path d="M12 22s8-4 8-10V5l-8-3-8 3v7c0 6 8 10 8 10z"/><path d="M9 12l2 2 4-4"/></svg> Kami bantu anda</span></div>
       <div class="row" style="top:84px"><div class="cl"><div class="ci" id="bt-i0"><span class="cb"><svg class="ico" width="34" height="34" viewBox="0 0 24 24" fill="none" stroke="#0B1F3A" stroke-width="3.2" stroke-linecap="round" stroke-linejoin="round"><path d="M20 6L9 17l-5-5"/></svg></span><span>Uruskan pusaka anda</span></div><div class="ci" id="bt-i1"><span class="cb"><svg class="ico" width="34" height="34" viewBox="0 0 24 24" fill="none" stroke="#0B1F3A" stroke-width="3.2" stroke-linecap="round" stroke-linejoin="round"><path d="M20 6L9 17l-5-5"/></svg></span><span>Proses semua dokumen</span></div><div class="ci" id="bt-i2"><span class="cb"><svg class="ico" width="34" height="34" viewBox="0 0 24 24" fill="none" stroke="#0B1F3A" stroke-width="3.2" stroke-linecap="round" stroke-linejoin="round"><path d="M20 6L9 17l-5-5"/></svg></span><span>Sampai dapat SURAT KUASA</span></div></div></div>
     </div>

diff --git a/wasiyyah-reel/compositions/bicara.html b/wasiyyah-reel/compositions/bicara.html
@@ -35,7 +35,7 @@
 </style>
   <div id="bicara" data-composition-id="bicara" data-width="1080" data-height="1920">
 
-    <div class="panel" id="bi-panel" style="height:340px">
+    <div class="panel" id="bi-panel" style="height:340px;top:439px">
       <div class="krow"><span class="kick" id="bi-kick"><svg class="ico" width="30" height="30" viewBox="0 0 24 24" fill="none" stroke="#0B1F3A" stroke-width="2.6" stroke-linecap="round" stroke-linejoin="round"><path d="M16 16l3-8 3 8c-.87.65-1.92 1-3 1s-2.13-.35-3-1z"/><path d="M2 16l3-8 3 8c-.87.65-1.92 1-3 1s-2.13-.35-3-1z"/><path d="M7 21h10"/><path d="M12 3v18"/><path d="M3 7h2c2 0 5-1 7-2 2 1 5 2 7 2h2"/></svg> Ketika bicara kuasa</span></div>
       <div class="row" style="top:78px"><span class="t-sm" id="bi-sub"><svg class="ico" width="34" height="34" viewBox="0 0 24 24" fill="none" stroke="#E9C46A" stroke-width="2.4" stroke-linecap="round" stroke-linejoin="round"><path d="M15 2H6a2 2 0 0 0-2 2v16a2 2 0 0 0 2 2h12a2 2 0 0 0 2-2V7z"/><path d="M14 2v5h5"/><path d="M16 13H8"/><path d="M16 17H8"/><path d="M10 9H8"/></svg> Semua aset dibentangkan</span></div>
       <div class="row" style="top:132px;gap:16px" id="bi-cols">

diff --git a/wasiyyah-reel/compositions/cta.html b/wasiyyah-reel/compositions/cta.html
@@ -33,7 +33,7 @@
 </style>
   <div id="cta" data-composition-id="cta" data-width="1080" data-height="1920">
 
-    <div class="panel" id="ct-panel" style="height:320px">
+    <div class="panel" id="ct-panel" style="height:320px;top:449px">
       <div class="row" style="top:28px"><span id="ct-sh"><svg class="ico" width="80" height="80" viewBox="0 0 24 24" fill="none" stroke="#E9C46A" stroke-width="2" stroke-linecap="round" stroke-linejoin="round"><path d="M12 22s8-4 8-10V5l-8-3-8 3v7c0 6 8 10 8 10z"/><path d="M9 12l2 2 4-4"/></svg></span></div>
       <div class="row" style="top:122px"><span class="t-lg gold" id="ct-t" style="font-size:62px">LINDUNGI ASET ANDA</span></div>
       <div class="row" style="top:210px"><span class="btn" id="ct-btn"><svg class="ico" width="40" height="40" viewBox="0 0 24 24" fill="none" stroke="#0B1F3A" stroke-width="2.6" stroke-linecap="round" stroke-linejoin="round"><path d="M21 11.5a8.38 8.38 0 0 1-.9 3.8 8.5 8.5 0 0 1-7.6 4.7 8.38 8.38 0 0 1-3.8-.9L3 21l1.9-5.7a8.38 8.38 0 0 1-.9-3.8 8.5 8.5 0 0 1 4.7-7.6 8.38 8.38 0 0 1 3.8-.9h.5a8.48 8.48 0 0 1 8 8v.5z"/></svg> Contact saya untuk detail</span></div>

diff --git a/wasiyyah-reel/compositions/surat.html b/wasiyyah-reel/compositions/surat.html
@@ -34,7 +34,7 @@
 </style>
   <div id="surat" data-composition-id="surat" data-width="1080" data-height="1920">
 
-    <div class="panel" id="su-panel" style="height:340px">
+    <div class="panel" id="su-panel" style="height:340px;top:439px">
       <div class="krow"><span class="kick" id="su-kick">Nak keluarkan duit &amp; tukar geran?</span></div>
       <div class="row" style="top:80px"><span class="t-sm" id="su-l1">Waris <b>WAJIB</b> dapatkan</span></div>
       <div class="row" style="top:128px"><div class="doc" id="su-doc"><svg class="ico" width="60" height="60" viewBox="0 0 24 24" fill="none" stroke="#0B1F3A" stroke-width="2" stroke-linecap="round" stroke-linejoin="round"><path d="M15 2H6a2 2 0 0 0-2 2v16a2 2 0 0 0 2 2h12a2 2 0 0 0 2-2V7z"/><path d="M14 2v5h5"/><path d="M16 13H8"/><path d="M16 17H8"/><path d="M10 9H8"/></svg><div style="text-align:left"><div style="font-weight:900;font-size:54px;letter-spacing:-.01em;line-height:1" id="su-title">SURAT KUASA</div><div style="font-weight:700;font-size:28px;opacity:.75;margin-top:6px">Letter of Administration</div></div></div></div>

diff --git a/wasiyyah-reel/compositions/tarikh.html b/wasiyyah-reel/compositions/tarikh.html
@@ -36,7 +36,7 @@
 </style>
   <div id="tarikh" data-composition-id="tarikh" data-width="1080" data-height="1920">
 
-    <div class="panel" id="ta-panel" style="height:346px">
+    <div class="panel" id="ta-panel" style="height:346px;top:436px">
       <div class="krow"><span class="kick" id="ta-kick"><svg class="ico" width="30" height="30" viewBox="0 0 24 24" fill="none" stroke="#0B1F3A" stroke-width="2.6" stroke-linecap="round" stroke-linejoin="round"><path d="M5 22h14"/><path d="M5 2h14"/><path d="M17 22v-4.17a2 2 0 0 0-.59-1.42L12 12l-4.41 4.41A2 2 0 0 0 7 17.83V22"/><path d="M7 2v4.17a2 2 0 0 0 .59 1.42L12 12l4.41-4.41A2 2 0 0 0 17 6.17V2"/></svg> Prosesnya panjang</span></div>
       <div id="ta-ph1">
         <div class="row" style="top:80px"><span class="t-sm" id="ta-lab"><svg class="ico" width="34" height="34" viewBox="0 0 24 24" fill="none" stroke="#E9C46A" stroke-width="2.4" stroke-linecap="round" stroke-linejoin="round"><rect x="3" y="4" width="18" height="18" rx="2"/><path d="M16 2v4"/><path d="M8 2v4"/><path d="M3 10h18"/></svg> Tarikh bicara kuasa biasanya</span></div>

diff --git a/wasiyyah-reel/compositions/masalah.html b/wasiyyah-reel/compositions/masalah.html
@@ -31,7 +31,7 @@
 </style>
   <div id="masalah" data-composition-id="masalah" data-width="1080" data-height="1920">
 
-    <div class="panel" id="ma-panel" style="height:310px">
+    <div class="panel" id="ma-panel" style="height:310px;top:454px">
       <div class="krow"><span class="kick" id="ma-kick" style="background:linear-gradient(180deg,#FF9A9A,#FF6B6B)"><svg class="ico" width="30" height="30" viewBox="0 0 24 24" fill="none" stroke="#2A0A0A" stroke-width="2.6" stroke-linecap="round" stroke-linejoin="round"><path d="M10.29 3.86L1.82 18a2 2 0 0 0 1.71 3h16.94a2 2 0 0 0 1.71-3L13.71 3.86a2 2 0 0 0-3.42 0z"/><path d="M12 9v4"/><path d="M12 17h.01"/></svg> Masalahnya</span></div>
       <div id="ma-ph1"><div class="row" style="top:80px"><span class="t-md">Ramai waris</span></div>
       <div class="row" style="top:138px"><span class="t-lg redt" id="ma-tm" style="font-size:78px">TAK MAMPU</span></div>

diff --git a/wasiyyah-reel/compositions/banding.html b/wasiyyah-reel/compositions/banding.html
@@ -36,7 +36,7 @@
 </style>
   <div id="banding" data-composition-id="banding" data-width="1080" data-height="1920">
 
-    <div class="panel" id="bd-panel" style="height:346px">
+    <div class="panel" id="bd-panel" style="height:346px;top:436px">
       <div class="krow"><span class="kick" id="bd-kick">Bandingkan • aset RM2 juta</span></div>
       <div class="cmp" style="top:76px" id="bd-r1"><div class="ch"><span>3rd party trustee (2%)</span><b class="redt" id="bd-v1">RM40,000++</b></div><div class="bar"><i id="bd-b1" style="width:100%;background:linear-gradient(90deg,#FF6B6B,#FF9A7A)"></i></div></div>
       <div class="cmp" style="top:166px" id="bd-r2"><div class="ch"><span>Wasitah Intan (15 thn)</span><b class="gold" id="bd-v2">RM0</b></div><div class="bar"><i id="bd-b2" style="width:14.6%;background:linear-gradient(90deg,#C9962E,#F2CF76)"></i></div></div>

diff --git a/wasiyyah-reel/compositions/brand.html b/wasiyyah-reel/compositions/brand.html
@@ -36,7 +36,7 @@
 </style>
   <div id="brand" data-composition-id="brand" data-width="1080" data-height="1920">
 
-    <div class="panel" id="br-panel" style="height:330px">
+    <div class="panel" id="br-panel" style="height:330px;top:444px">
       <div class="krow"><span class="kick" id="br-kick"><svg class="ico" width="30" height="30" viewBox="0 0 24 24" fill="none" stroke="#0B1F3A" stroke-width="2.6" stroke-linecap="round" stroke-linejoin="round"><path d="M12 22s8-4 8-10V5l-8-3-8 3v7c0 6 8 10 8 10z"/><path d="M9 12l2 2 4-4"/></svg> Penyelesaiannya</span></div>
       <div class="row" style="top:76px"><span class="t-sm" id="br-sy">Syarikat</span></div>
       <div class="row" style="top:104px;padding:6px 0 34px;overflow:hidden" data-layout-allow-overflow><span class="wm gold" id="br-wm">Wasiyyah</span><span class="shine" id="br-sh"></span></div>
